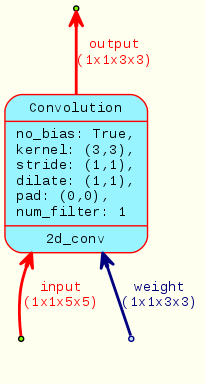
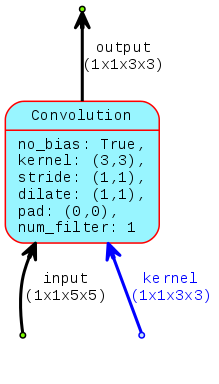
Further updates

Changed region(s): [[0.0, 0.0, 0.9659, 0.9062]]

diff --git a/pages/2017-04-20-corr-not-conv/index.md b/pages/2017-04-20-corr-not-conv/index.md
@@ -4,7 +4,7 @@ date: "2017-01-20T22:12:03.284Z"
 path: "/ConvNet-dont-do-Conv/"
 ---
 
-Here is a problem: say we would like to convolve 2D signal $I$ with kernel $K$ defined as
+Here is a problem: we'd like to convolve convolve image $I$ and kernel $K$ where both signals are 2D defined as
 
 $$
 I = 
@@ -16,7 +16,6 @@ I =
   2&2&2&3&2 \\\\
  \end{bmatrix}
 $$
-
 $$
 K = 
  \begin{bmatrix}
@@ -26,18 +25,13 @@ K =
  \end{bmatrix}
 $$
 
+A typical computation graph to represent this problem is a single node for the operator and edges representing the tensors
 
 <p align="center">
   <img src="./conv2d.png">
 </p>
 
-Which of the following two animations demonstrates the convolution procedure? i.e.  
-
-$$
-  convolve(I, K)
-$$
-
-One with the <span style="color:blue"> blue </span>kernel or one with the <span style="color:red"> red </span> kernel?
+Which of the following two animations demonstrates $convolve(I, K)$, the one with the <span style="color:blue"> blue </span>kernel or one with the <span style="color:red"> red </span> kernel?
 
 <p align="center">
   <img src="./corr_numerical_no_padding_no_strides.gif">
@@ -47,33 +41,29 @@ One with the <span style="color:blue"> blue </span>kernel or one with the <span 
   <img src="./conv_numerical_no_padding_no_strides.gif">
 </p>
 
+Both animations show a [MAC operation](https://en.wikipedia.org/wiki/Multiply%E2%80%93accumulate_operation) being performed as the kernel slides across the image, thew only difference being that the <span style="color:red"> red </span>kernel is a flip re-ordering of the original kernel $K$ colored <span style="color:blue"> blue</span>.
 
-The animations show a [MAC operation](https://en.wikipedia.org/wiki/Multiply%E2%80%93accumulate_operation) being performed as the kernel slides across the signal, but notice that the <span style="color:red"> red </span>kernel is a flip re-ordering of the <span style="color:blue"> blue </span>kernel. 
-
-Mathematically the 2D convolutuion procedure is written as
+For additional clues to the answer we may turn to the mathematical definition of 2D convolution
 
 $$
 C[x,y] = \sum_{j=-1}^{1} \sum_{i=-1}^{1} I[x+i,y+j]K[-i, -j]
 $$
 
+The indices are specific to the signal dimensions used here with 0 centering:
+* $x,y \in [ -1, 0, 1 ]$ for the result
+* $i,j \in [-1, 0, 1 ]$ for the kernel
+* $x+i,y+j \in [ -2, -1, 0, 1, 2 ]$ for the input image
 
-where the output $C$ has finite support in the set $x,y \in \\{ -1, 0, 1 \\}$ and the kernel has support $x,y \in \\{-1, 0, 1 \\}$. $x+i,y+j \in \\{ -2, -1, 0, 1, 2 \\}$
-
-where $\color{red}{K[-i, -j]}$ is the flip of $\color{blue}{K[i,j]}$.
-
-
-So answer to the question is the animation one with the <span style="color:red"> red </span>kernel and this is confirmed by the mathematical definition.
+The clue is in the orientation of the kernel in the above formula: $\color{red}{K[-i, -j]}$ is a flip re-ordering of $\color{blue}{K[i,j]}$ so the correct answer is the <span style="color:red"> RED</span> animation.
 
 
 ### What do the Deep Learning frameworks implement?
 
-
-Hold this thought in mind and think about what the Deep Learning frameworks implement for the Convolution operator.  I decided to test this in [MXNet](http://mxnet.io) using the python script below.  We expect this script to produce an aoutput that is consistent with the mathematical definition i.e. result with the <span style="color:red"> red </span>kernel.
+I decided to run a test in [MXNet](http://mxnet.io) to find out what sort of answer I'd get.  The python script below simulates the operator with signals $I$ and $K$ as defined above, expecting a result consistent with the mathematical definition i.e. the result of the <span style="color:red"> red</span> animation.
 
 
 
 ```python
-## Import mxnet python module
 import mxnet as mx
 
 ## Define operator as a computation graph
@@ -107,7 +97,7 @@ c_exec.forward()
 ## Show output
 print c_exec.outputs[0].asnumpy()
 
-# Result shows the blue kernel is used:
+# Result shows a correlation is performed:
 #
 #[[[[ 60  56  52]
 #   [ 39  61  66]
@@ -115,48 +105,33 @@ print c_exec.outputs[0].asnumpy()
 #
 ```
 
-So according to MXNet, the implementation of convolution does not take into account a flip of the kernel and is infact performing the animation with the <span style="color:blue"> blue </span>kernel above.  This pattern is not unique to MXNet but is common across all other frameworks.
+So according to MXNet, the implementation of convolution does not take into account a flip of the kernel and is infact performing a correlation.  This pattern is not unique to MXNet but is common across all other frameworks.  
 
+So why are the frameworks implementing it in this way when the math clearly states what should be done?  To understand this we have to take a step back and appreciate how convolution and correlation are related.
 
+### More on the Math.
 
+Lets introduce some notation:
+* $\color{red}{*}$ to denote <span style="color:red"> convolution</span>.  This is implemented using correlation with a flipped kernel.
+* $\color{blue}{\star}$ to denote <span style="color:blue"> correlation</span>.  This is implemented as a sliding dot product.
 
-### Correlation Neural Networks, rather.
-
-
-
-> The Convolution Operator in ConvNets don't perform Convolution, but rather, perform Correlation because the kernel is not flipped.
-
-
-
-
-> Convolution is the link that bridges Correlation with Frequency Domain Theory.  In Signal Processing theory this link is known as the Convolution Theorem.
-
-
-
-
-
-... performing a^[In Digital Signal Processing, the multiply–accumulate operation is fundamental and is the basis upon which dot product procedures are implemented.], also known as the dot product.  
-
-
-
-Notation:
-* to denote $\color{red}{convolution}$ : $\color{red}{*}$
-* to denote $\color{blue}{correlation}$ : $\color{blue}{\star}$
-
-
-And matrices too:
-
-
-
+What is requested when the convolution operator is invoked is identity $\eqref{eq:corrflp}$ but what is actually performed is the RHS of identity $\eqref{eq:corr}$.
 
 $$
-  \begin{align\*}
-    \color{red}{convolve}(I, K) &=  \color{blue}{correlate}(I, K_{flipped}) \\\\
+  \begin{align}
+    \color{red}{convolve}(I, K) &=  \color{blue}{correlate}(I, K_{flipped})
+    \label{eq:corrflp}
+  \end{align}
+$$
+
+$$
+  \begin{align}
     \color{red}{convolve}(I, K_{flipped}) &=  \color{blue}{correlate}(I, K)
-  \end{align\*}
+    \label{eq:corr}
+  \end{align}
 $$
 
-
+Using matrices adds more clarity
 
 $$
 K_{\color{blue}{corr}} = 
@@ -166,6 +141,8 @@ K_{\color{blue}{corr}} =
   \color{blue}6 & \color{blue}7 & \color{blue}8  \\\\
  \end{bmatrix}
 $$
+
+is the correlation kernel, then the convolution kernel is derived as
 
 $$
 \begin{align\*}
@@ -179,13 +156,13 @@ K_{\color{red}{conv}} &= flip\big( K_{\color{blue}{corr}} \big) \\\\
 \end{align\*}
 $$
 
-
-
+Identity $\eqref{eq:corr}$ is then re-written as 
 
 $$
 I \color{red}{*} K_{\color{red}{conv}} =  I \color{blue}{\star} K_{\color{blue}{corr}}
 $$
 
+when expanded 
 
 $$
  \begin{bmatrix}
@@ -214,6 +191,43 @@ $$
  \end{bmatrix}
 $$
 
+
+
+
+
+
+
+
+scaas
+
+
+
+
+
+
+
+### <span style="color:blue"> Correlation </span>Neural Networks, rather.
+
+It turns out that Convolutional Neural Network is a bit of a misnomer, depending on how you think about it.  Two lines of thought:
+
+1. The 
+
+> The convolution operator in ConvNets is not implemented as convolution, but rather, as correlation.  A more appropriate name for ConvNets is infact CorrNet.
+
+
+
+
+> From a Signal Processing view, convolution is the link that bridges time domain correlation with frequency domain concepts.  Formally this link is known as the Convolution Theorem.
+
+
+
+
+
+... performing a^[In Digital Signal Processing, the multiply–accumulate operation is fundamental and is the basis upon which dot product procedures are implemented.], also known as the dot product.  
+
+
+
+And matrices too:
 
 
 
